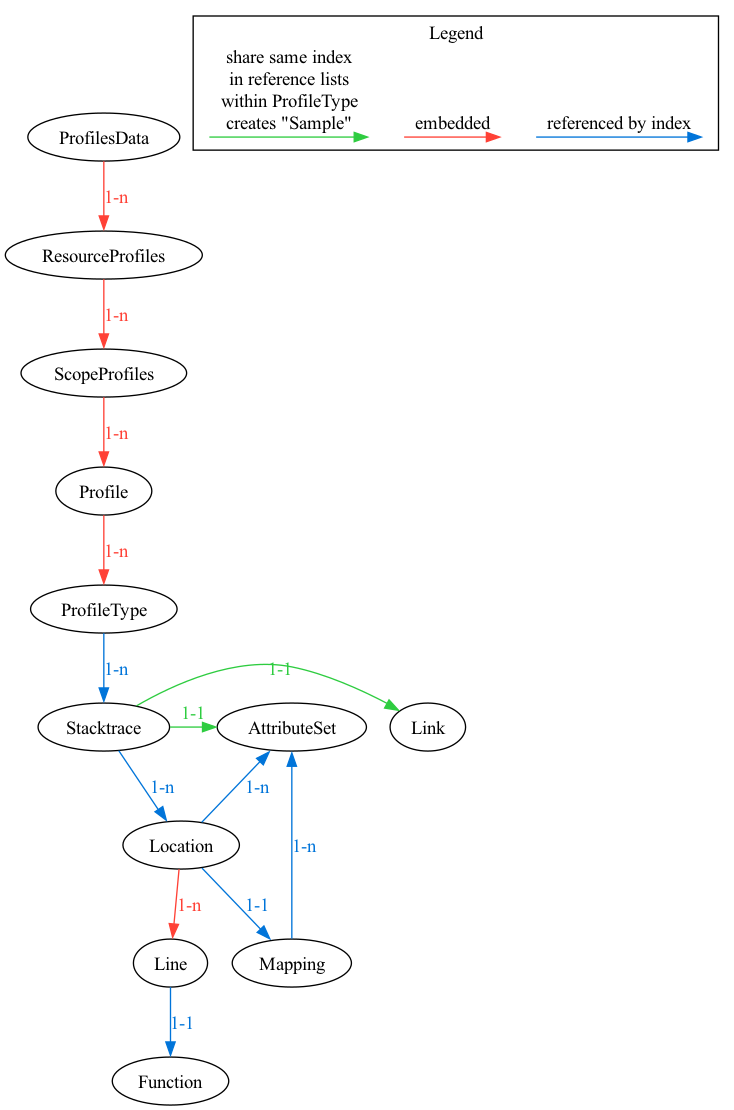
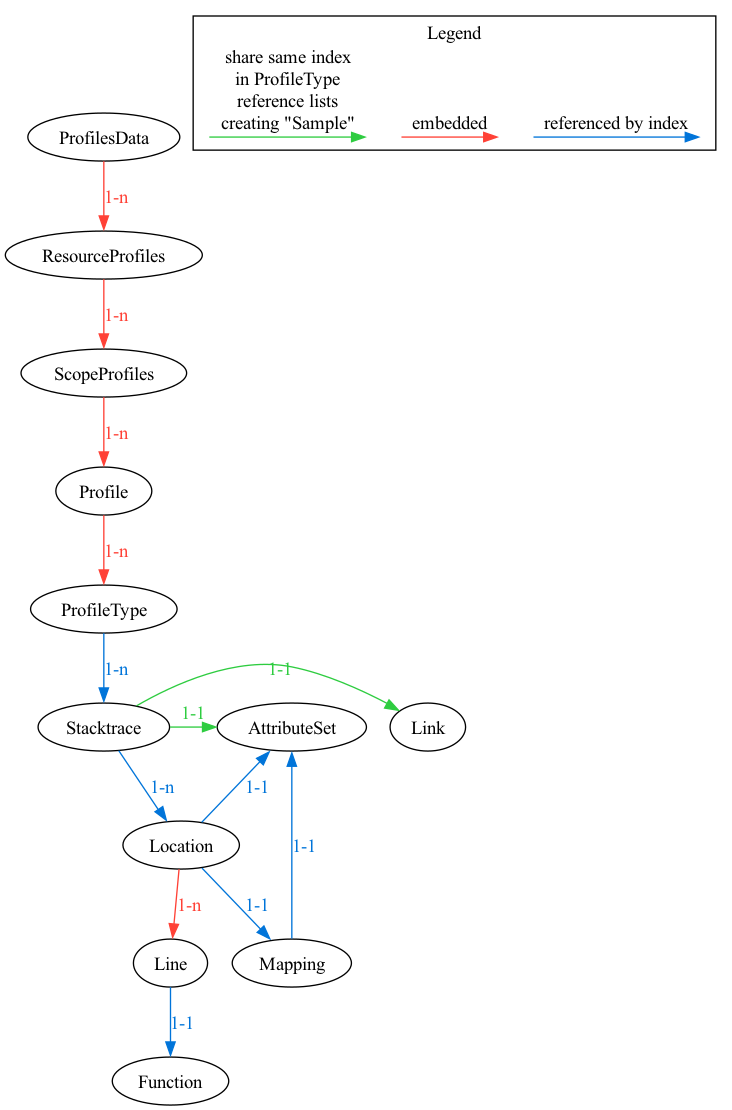
addresses comments from review

diff --git a/text/profiles/0237-profiles-data-model.md b/text/profiles/0237-profiles-data-model.md
@@ -18,7 +18,7 @@ Introduces Data Model for Profiles signal to OpenTelemetry.
     * [Message `ScopeProfiles`](#message-scopeprofiles)
     * [Message `Profile`](#message-profile)
     * [Message `ProfileType`](#message-profiletype)
-    * [Message `Sample`](#message-sample)
+    * [`Sample` structure](#sample-structure)
     * [Message `Stacktrace`](#message-stacktrace)
     * [Message `AttributeSet`](#message-attributeset)
     * [Message `Link`](#message-link)
@@ -84,7 +84,7 @@ There are two types of relationships between profiles and other signals:
 
 #### From profiles to other signals
 
-[Link](#message-link) is a message that is used to represent connections between profile [Samples](#message-sample) and trace spans. It uses `trace_id` and `span_id` as identifiers.
+[Link](#message-link) is a message that is used to represent connections between profile [Samples](#sample-structure) and trace spans. It uses `trace_id` and `span_id` as identifiers.
 
 For other signals, such as logs or metrics, because other signals use the same way of linking between such signals and traces (`trace_id` and `span_id`), it is possible to correlate profiles with other signals using this same information.
 
@@ -92,7 +92,7 @@ For other signals, such as logs or metrics, because other signals use the same w
 
 Other signals can use `profile_id` to reference a profile. For example, a log record can reference a profile that was collected at the time when the log record was generated by using `profile_id` as one of the attributes. This allows to correlate logs with profiles.
 
-Additionally, `trace_id`, `span_id` can be used to reference specific [Samples](#message-sample) in a Profile, since [Samples](#message-sample) are linked to traces with these same identifiers using [Links](#message-link).
+Additionally, `trace_id`, `span_id` can be used to reference specific [Samples](#sample-structure) in a Profile, since [Samples](#sample-structure) are linked to traces with these same identifiers using [Links](#message-link).
 
 The exact details of such linking are out of scope for this OTEP. It is expected that other OTEPs will define how such linking is done.
 
@@ -199,8 +199,7 @@ message Profile {
   // This field is semantically required and it is expected that end_time >= start_time.
   fixed64 end_time_unix_nano = 3;
 
-  // attributes is a collection of key/value pairs. Note, global attributes
-  // like server name can be set using the resource API. Examples of attributes:
+  // attributes is a collection of key/value pairs. Attributes that are not specific to a particular profile (like server name) MUST be specified in Resource attributes instead. Examples of attributes:
   //
   //     "/http/user_agent": "Mozilla/5.0 (Macintosh; Intel Mac OS X 10_14_2) AppleWebKit/537.36 (KHTML, like Gecko) Chrome/71.0.3578.98 Safari/537.36"
   //     "/http/server_latency": 300
@@ -325,9 +324,10 @@ message ProfileType {
   repeated uint64 timestamps = 14;
 }
 
+// SymbolFidelity enumerates the level of fidelity for symbol information in a profile.
 enum SymbolFidelity {
-  SYMBOL_FIDELITY_UNSPECIFIED = 0;
-  SYMBOL_FIDELITY_FULL = 1;
+  SYMBOL_FIDELITY_UNSPECIFIED = 0; // The symbol fidelity level is unspecified.
+  SYMBOL_FIDELITY_FULL = 1;        // The symbol fidelity is at its fullest level of detail.
 }
 
 // Describes the mapping from a binary to its original source code. These are stored in a lookup table in a Profile. These are referenced by index from other messages.
@@ -350,7 +350,7 @@ message Mapping {
   SymbolFidelity symbolic_info = 6;
 
   // Reference to an attribute set from the Profile's attribute set table.
-  repeated uint32 attribute_set_indices = 7;
+  uint32 attribute_set_index = 7;
 }
 
 // Describes function and line table debug information. These are stored in a lookup table in a Profile. These are referenced by index from other messages.
@@ -375,7 +375,7 @@ message Location {
   repeated Line line = 3;
 
   // Reference to an attribute set from the Profile's attribute set table.
-  repeated uint32 attribute_set_indices = 5;
+  uint32 attribute_set_index = 4;
 }
 
 // Represents a line in a source file. These are embedded within a Location message.
@@ -491,8 +491,7 @@ This field is semantically required and it is expected that end_time >= start_ti
 
 ##### Field `attributes`
 
-attributes is a collection of key/value pairs. Attributes that are not specific to a particular profile
-(like server name) MUST be specified in Resource attributes instead.
+attributes is a collection of key/value pairs. Attributes that are not specific to a particular profile (like server name) MUST be specified in Resource attributes instead.
 
 ##### Field `dropped_attributes_count`
 
@@ -659,7 +658,7 @@ E.g., if memcpy() is inlined into printf:
 line[0].function_name == "memcpy"
 line[1].function_name == "printf"
 
-##### Field `attribute_set_indices`
+##### Field `attribute_set_index`
 
 Reference to an attribute set from the Profile's attribute set table.
 </details>
@@ -695,7 +694,7 @@ A string that uniquely identifies a particular program version
 with high probability. E.g., for binaries generated by GNU tools,
 it could be the contents of the .note.gnu.build-id field. Index into string table
 
-##### Field `attribute_set_indices`
+##### Field `attribute_set_index`
 
 Reference to an attribute set from the Profile's attribute set table.
 </details>
@@ -893,7 +892,7 @@ Another optimization technique that we use to reduce the size of the resulting p
 "values": [100, 200]
 ```
 
-Explanation: in `normalized` representation samples are a collection of references to other messages plus a value. The standard way of representing those is to put each [Samples](#message-sample) into a separate message, and link from [Samples](#message-sample) to other messages. Parsing / generating such payloads creates many individual objects that runtime has to track. The second `arrays` representation puts values of the same kind into separate arrays. This reduces the size of the resulting protobuf payload and the number of objects that need to be allocated to parse / generate such payload.
+Explanation: in `normalized` representation samples are a collection of references to other messages plus a value. The standard way of representing those is to put each [Samples](#sample-structure) into a separate message, and link from [Samples](#sample-structure) to other messages. Parsing / generating such payloads creates many individual objects that runtime has to track. The second `arrays` representation puts values of the same kind into separate arrays. This reduces the size of the resulting protobuf payload and the number of objects that need to be allocated to parse / generate such payload.
 
 Benchmarking shows that this approach is significantly more efficient in terms of CPU utilization, memory consumption and size of the resulting protobuf payload. See [Prior art and alternatives](#prior-art-and-alternatives) for more details.
 
